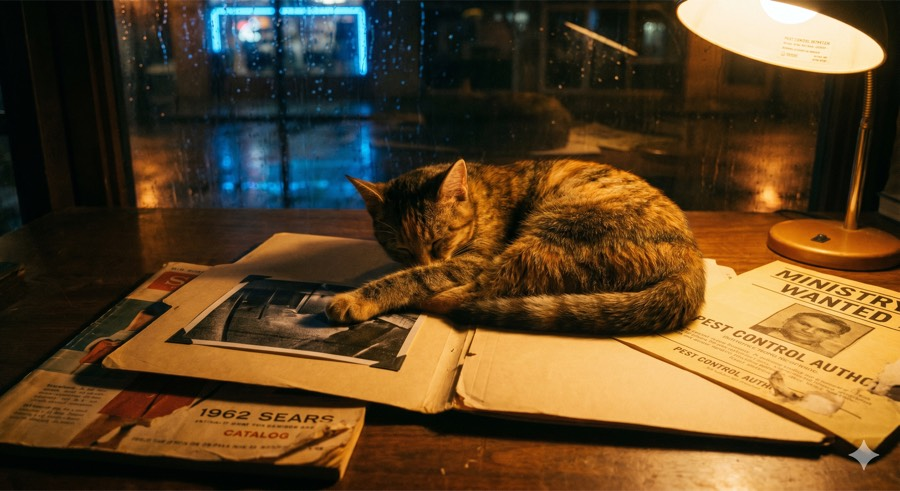
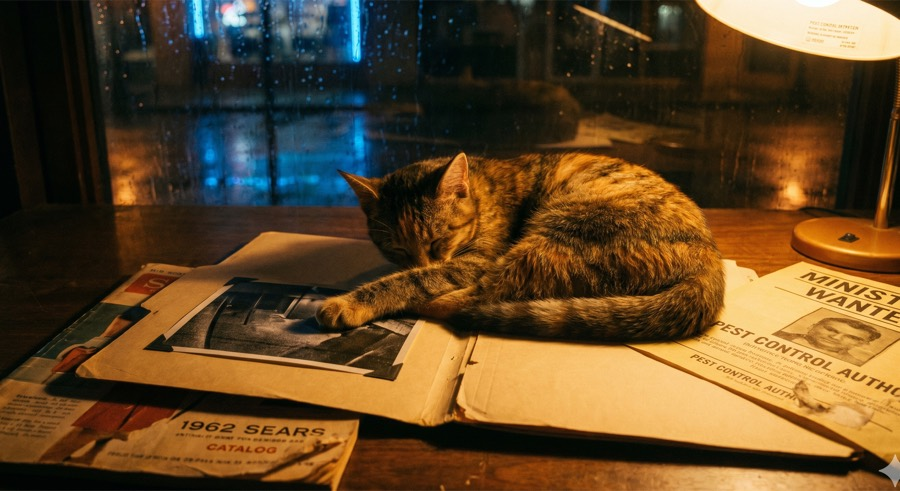
feat: UI polish from design review (light-mode contrast, nav order, mobile, checklist)
- Nav order now matches the 1-2-3 onboarding path; step progress bar on the three core pages
- Light-mode palette overrides (amber/blue/lines) for AA contrast; focus rings; reduced-motion; print styles
- Hero scrim and clearer button labels; shorter header title; portrait float fixes
- Tappable checklist with copy-paste message template for the GM; next-step boxes on every page
- Crop AI watermark from images and shrink the hero; fix nested italics typo

diff --git a/docs/stylesheets/extra.css b/docs/stylesheets/extra.css
@@ -1,6 +1,4 @@
 /* The Shadow Exchange — industrial-occult noir. Amber against cold blue. */
-@import url("https://fonts.googleapis.com/css2?family=Oswald:wght@500;600;700&family=Lora:ital,wght@0,400;0,600;1,400&display=swap");
-
 :root {
   --se-amber: #f2a93b;
   --se-amber-dim: #b97d1d;
@@ -8,6 +6,14 @@
   --se-ink: #0c0e13;
   --se-panel: #141821;
   --se-line: #262c3a;
+}
+
+/* ---------- Light mode needs its own amber/blue/lines (dark values are too pale on paper) ---------- */
+[data-md-color-scheme="default"] {
+  --se-amber: #9a5206; --se-amber-dim: #b8732a; --se-blue: #1d5fa7; --se-panel: #ece4d2; --se-line: #d6c9b1;
+}
+[data-md-color-scheme="default"] .md-header, [data-md-color-scheme="default"] .md-tabs {
+  --se-amber: #f2a93b; --se-line: #262c3a;   /* the bars stay dark in both modes */
 }
 
 /* ---------- Dark (default): rain-slick night ---------- */
@@ -31,8 +37,8 @@
   --md-default-fg-color: #1d1914;
   --md-primary-fg-color: #14171d;
   --md-primary-bg-color: #f2e9d6;
-  --md-accent-fg-color: #b0620a;
-  --md-typeset-a-color: #a2560a;
+  --md-accent-fg-color: #9a5206;
+  --md-typeset-a-color: #9a5206;
   --md-footer-bg-color: #14171d;
 }
 
@@ -53,7 +59,7 @@
 .md-header { border-bottom: 2px solid var(--se-amber); box-shadow: none; }
 .md-header__title { text-transform: uppercase; font-weight: 600; }
 .md-tabs { border-bottom: 1px solid var(--se-line); }
-.md-tabs__link { text-transform: uppercase; font-size: .62rem; opacity: .8; }
+.md-tabs__link { text-transform: uppercase; font-size: .68rem; letter-spacing: .06em; opacity: .88; }
 .md-tabs__item--active .md-tabs__link { opacity: 1; color: var(--se-amber); }
 
 /* ---------- Quotes (the pitch, read-alouds, GM-style asides) ---------- */
@@ -85,12 +91,16 @@
 .hero {
   position: relative; margin: 0 0 1.6rem; border-radius: 12px; overflow: hidden; min-height: 21rem;
   display: flex; align-items: flex-end;
-  background: linear-gradient(180deg, rgba(12,14,19,.15) 0%, rgba(12,14,19,.55) 55%, rgba(12,14,19,.92) 100%),
-              url("../assets/hero-curios.jpg") center 35% / cover no-repeat;
+  background:
+    radial-gradient(120% 90% at 0% 100%, rgba(12,14,19,.94) 0%, rgba(12,14,19,.72) 52%, rgba(12,14,19,.2) 100%),
+    linear-gradient(180deg, rgba(12,14,19,.1) 0%, rgba(12,14,19,.82) 100%),
+    url("../assets/hero-curios.jpg") center 28% / cover no-repeat;
   border: 1px solid var(--se-line);
 }
 .hero__text { padding: 1.6rem 1.6rem 1.4rem; max-width: 40rem; }
 .hero__text h1 { margin: 0 0 .15em; font-size: 2.4em; line-height: 1.05; color: #f6ecd6 !important; text-shadow: 0 2px 14px rgba(0,0,0,.7); }
+.hero__text .md-button { margin: .25rem .5rem .25rem 0; }
+.hero .md-button:not(.md-button--primary) { color: #f6ecd6; border-color: rgba(246,236,214,.55); background: rgba(12,14,19,.65); }
 .hero__kicker { font-family: "Oswald", sans-serif; text-transform: uppercase; letter-spacing: .22em; color: var(--se-amber); font-size: .7rem; margin: 0 0 .3rem; }
 .hero__tag { color: #efe6d2; font-family: "Lora", serif; font-style: italic; margin: .4rem 0 1rem; text-shadow: 0 1px 8px rgba(0,0,0,.8); }
 @media (max-width: 600px) { .hero { min-height: 18rem; } .hero__text h1 { font-size: 1.9em; } }
@@ -111,8 +121,6 @@
 /* ---------- Pictures ---------- */
 .md-typeset img.figure { border-radius: 10px; border: 1px solid var(--se-line); width: 100%; margin: 1rem 0; }
 .md-typeset figure figcaption { font-family: "Lora", serif; font-style: italic; color: var(--md-default-fg-color--light); font-size: .75rem; }
-.md-typeset img.portrait { float: right; width: 11rem; margin: 0 0 1rem 1.2rem; border-radius: 10px; border: 1px solid var(--se-line); }
-@media (max-width: 600px) { .md-typeset img.portrait { float: none; width: 100%; margin: 1rem 0; } }
 
 /* ---------- Footer ---------- */
 .md-footer-meta { background: var(--se-ink); }
@@ -121,3 +129,43 @@
 /* ---------- Active nav ---------- */
 .md-nav__link--active, .md-nav__item .md-nav__link--active { color: var(--se-amber) !important; }
 .md-nav__link:hover { color: var(--se-blue); }
+
+/* ---------- Portraits: clear floats, tame on phones ---------- */
+.md-typeset img.portrait { float: right; width: 14rem; max-width: 42%; margin: .2rem 0 1rem 1.2rem; border-radius: 10px; border: 1px solid var(--se-line); }
+.md-typeset h2, .md-typeset h3, .md-typeset hr, .md-typeset .next-step { clear: both; }
+@media (max-width: 600px) {
+  .md-typeset img.portrait { float: none; display: block; width: 100%; max-width: 20rem; max-height: 11rem; object-fit: cover; margin: .75rem auto; }
+  .md-header__title { font-size: .85rem; letter-spacing: .03em; }
+}
+
+/* ---------- 3-step onboarding bar ---------- */
+.onboard-steps { display: grid; grid-template-columns: repeat(3, 1fr); gap: .5rem; margin: 0 0 1.4rem; font-family: "Oswald", sans-serif; text-transform: uppercase; font-size: .62rem; letter-spacing: .06em; }
+.onboard-steps a { display: block; padding: .55rem .7rem; border-radius: 6px; border: 1px solid var(--se-line); background: var(--se-panel); color: var(--md-default-fg-color--light) !important; text-decoration: none; text-align: center; }
+.onboard-steps a.active { border-color: var(--se-amber); color: var(--se-amber) !important; background: rgba(242,169,59,.1); font-weight: 600; }
+
+/* ---------- Keyboard focus + reduced motion ---------- */
+.md-typeset a:focus-visible, .md-typeset .md-button:focus-visible { outline: 2px solid var(--se-amber); outline-offset: 2px; }
+@media (prefers-reduced-motion: reduce) {
+  *, *::before, *::after { transition-duration: .01ms !important; animation-duration: .01ms !important; transform: none !important; }
+}
+
+/* ---------- Print: Quick Start doubles as a table handout ---------- */
+@media print {
+  .md-header, .md-tabs, .md-sidebar, .md-footer, .next-step, .onboard-steps, .md-top { display: none !important; }
+  body, .md-main, .md-content { background: #fff !important; color: #000 !important; }
+  .md-typeset { font-size: 9.5pt !important; line-height: 1.45 !important; }
+  .md-typeset h1, .md-typeset h2, .md-typeset th { color: #000 !important; margin-top: .8em !important; }
+  .md-typeset table:not([class]) th { background: #eee !important; }
+}
+
+/* ---------- Task-list checkboxes: obvious empty ring vs. filled amber ---------- */
+.md-typeset .task-list-indicator::before {
+  background-color: transparent; -webkit-mask-image: none; mask-image: none;
+  border: 2px solid var(--se-amber-dim); border-radius: 50%; box-sizing: border-box;
+}
+.md-typeset [type=checkbox]:checked + .task-list-indicator::before {
+  background-color: var(--se-amber); border-color: var(--se-amber);
+  box-shadow: inset 0 0 0 3px var(--md-default-bg-color);
+}
+/* nested numbered lists stay 1-2-3 (matches the message template) */
+.md-typeset ol ol { list-style-type: decimal; }

diff --git a/docs/Before-Session-0.md b/docs/Before-Session-0.md
@@ -1,22 +1,46 @@
 # Before Session 0 — Your Checklist
 
+<div class="onboard-steps">
+  <a href="../Quick-Start/">1. Quick Start (5m)</a>
+  <a href="../Character-Creation-Guide/">2. Build PC (40m)</a>
+  <a class="active" href="../Before-Session-0/">3. Send to GM (5m)</a>
+</div>
+
 *Screenshot this. It is the whole job.*
 
 ---
 
 ## The 3 steps
 
-1. ☐ **Read [Quick Start](Quick-Start.md)** — 5 minutes. Nothing else is required reading.
-2. ☐ **Build your character** with the [Character Creation Guide](Character-Creation-Guide.md) (about 45 minutes; it walks you through it).
-3. ☐ **Send the GM these 8 things** — a text, a message, or an email is fine; the GM will tell you where to send it:
-   1. Your **playbook**
-   2. **Name** (and alias), **look** (three details), **heritage and background** (one specific line), and your **Vice + Purveyor**
-   3. Your **action dots**
-   4. Your **starting special ability**
-   5. Your **Close Friend** — name + one sentence
-   6. Your **Rival** — name + one sentence
-   7. Your **Cursed Family Heirloom** — just the object
-   8. Your answer to **one question** (the Guide gives you three to choose from)
+- [ ] **Read the [Quick Start](Quick-Start.md)** — 5 minutes. Nothing else is required reading.
+- [ ] **Build your character** with the [Character Creation Guide](Character-Creation-Guide.md) (about 45 minutes; it walks you through it).
+- [ ] **Send the GM these 8 things** — a text, a message, or an email is fine; the GM will tell you where to send it:
+    1. Your **playbook**
+    2. **Name** (and alias), **look** (three details), **heritage and background** (one specific line), and your **Vice + Purveyor**
+    3. Your **action dots**
+    4. Your **starting special ability**
+    5. Your **Close Friend** — name + one sentence
+    6. Your **Rival** — name + one sentence
+    7. Your **Cursed Family Heirloom** — just the object
+    8. Your answer to **one question** (the Guide gives you three to choose from)
+
+
+## Copy-and-paste message for the GM
+**Tap the copy icon, paste it into a message to the GM, and fill in the blanks:**
+
+```text
+1. Playbook:
+2. Name / alias:
+   Look (3 details):
+   Heritage & background:
+   Vice & purveyor:
+3. My 4 extra action dots:
+4. Starting special ability:
+5. Close Friend (name + 1 sentence):
+6. Rival (name + 1 sentence):
+7. Cursed Family Heirloom (the object):
+8. Why my character is still doing this work:
+```
 
 ## Need your playbook sheet?
 **Free PDFs for all seven playbooks: [Official Resources](Official-Resources.md).** *(Ignore the sheet's heritage list and friend names — they're for a different city.)* **No sheet yet? Come anyway** — we'll pick your special ability and your Friend/Rival at Session 0 in two minutes.
@@ -33,3 +57,8 @@
 Read [Session 0 Agenda](Session-0-Agenda.md) if you'd like to know. The short version: we introduce our characters, we look at the bookshop, we do **one silly practice roll**, and nothing bad happens to anyone.
 
 *Bring: your sheet (or photo), your sense of humor, and your character's worst idea.*
+
+---
+
+**Next step →** [Session 0 Agenda](Session-0-Agenda.md) — what the first night looks like
+{ .next-step }

diff --git a/docs/What-Kind-of-Game.md b/docs/What-Kind-of-Game.md
@@ -18,7 +18,7 @@ Here is the kind of moment this campaign is built to produce:
 
 Here is another:
 
-*You pull the Anchor Item from the target — *the keepsake that lets a hidden creature pass as human* — a silver locket worn smooth by someone's thumb, the photograph inside long since gone to a blur of faces. The target is neutralized. You file the paperwork. In the ledger, you write the locket's description. You write the date. You do not write what the date on the inside lid means about how long this has been going on.*
+*You pull the **Anchor Item** from the target — the keepsake that lets a hidden creature pass as human — a silver locket worn smooth by someone's thumb, the photograph inside long since gone to a blur of faces. The target is neutralized. You file the paperwork. In the ledger, you write the locket's description. You write the date. You do not write what the date on the inside lid means about how long this has been going on.*
 
 And another:
 

diff --git a/docs/Character-Creation-Guide.md b/docs/Character-Creation-Guide.md
@@ -1,5 +1,11 @@
 # Character Creation Guide
 
+<div class="onboard-steps">
+  <a href="../Quick-Start/">1. Quick Start (5m)</a>
+  <a class="active" href="../Character-Creation-Guide/">2. Build PC (40m)</a>
+  <a href="../Before-Session-0/">3. Send to GM (5m)</a>
+</div>
+
 **Read the [Quick Start](Quick-Start.md) first (5 minutes) — it has the dice rule and all 12 actions on one screen. That's all you need.** Everything else ([What Kind of Game Is This](What-Kind-of-Game.md), [Our Lair](Our-Lair.md), [Rules and Mechanics](Rules-and-Mechanics.md)) is optional reference if you get curious.
 
 Build your character before Session 0. Send the GM what this guide asks for. We'll introduce everyone at the table and build the crew together.

diff --git a/docs/Official-Resources.md b/docs/Official-Resources.md
@@ -51,3 +51,8 @@ You do **not** need these — the [Quick Start](Quick-Start.md) is enough. If yo
 ## Credit
 
 This work is based on [Blades in the Dark](http://www.bladesinthedark.com/), product of One Seven Design, developed and authored by John Harper, and licensed for our use under the [Creative Commons Attribution 3.0 Unported license](http://creativecommons.org/licenses/by/3.0/). *Blades in the Dark* is a game by John Harper; support the creators by [buying the book](https://evilhat.com/product/blades-in-the-dark/) if you enjoy it.
+
+---
+
+**Next step →** [Character Creation Guide](Character-Creation-Guide.md) — build your character
+{ .next-step }

diff --git a/docs/Known-Contacts.md b/docs/Known-Contacts.md
@@ -25,3 +25,8 @@ He charges fair prices: information for information, or coin when information is
 Ministry Field Compliance Officer. You have mailed her your incident forms for two years; she has returned each one annotated, with a form number, and no signature but hers. You have never met her. She has opinions about your handwriting.
 
 *Her office is at the Ministry's Old City field office, six blocks east. Plain door. No sign.*
+
+---
+
+**Next step →** [Character Creation Guide](Character-Creation-Guide.md) — build your character
+{ .next-step }

diff --git a/docs/Quick-Start.md b/docs/Quick-Start.md
@@ -1,5 +1,11 @@
 # Quick Start — Read This First (5 minutes)
 
+<div class="onboard-steps">
+  <a class="active" href="../Quick-Start/">1. Quick Start (5m)</a>
+  <a href="../Character-Creation-Guide/">2. Build PC (40m)</a>
+  <a href="../Before-Session-0/">3. Send to GM (5m)</a>
+</div>
+
 *Never played Blades in the Dark? Perfect. You do **not** need to read the long Rules page before Session 0 — read this. The long page is a reference you can come back to.*
 
 ---

diff --git a/docs/index.md b/docs/index.md
@@ -14,8 +14,8 @@ title: The Shadow Exchange
 
 <p class="hero__tag">Quiet dread. Moral weight. A cat who is always asleep on the evidence.</p>
 
-[Start here :material-arrow-right:](Quick-Start.md){ .md-button .md-button--primary }
-[Before Session 0](Before-Session-0.md){ .md-button }
+[1. Quick Start (5 min) :material-arrow-right:](Quick-Start.md){ .md-button .md-button--primary }
+[Session 0 checklist](Before-Session-0.md){ .md-button }
 
 </div>
 </div>

diff --git a/docs/Glossary.md b/docs/Glossary.md
@@ -38,3 +38,8 @@
 - **Containment Suite** — the crew's hidden lab and vault behind the bookshop's Zoltar machine.
 - **Cursed Family Heirloom** — an object your character should have left behind. The GM will quietly do something with it.
 - **Anchor Ledger** — the crew's record of every Anchor decision they've made.
+
+---
+
+**Next step →** [FAQ](FAQ.md) — the questions a nervous first-timer would ask
+{ .next-step }

diff --git a/docs/FAQ.md b/docs/FAQ.md
@@ -40,3 +40,8 @@ No. Three things: [Quick Start](Quick-Start.md), build your character, send the 
 
 **What if I can't make a session?**
 Tell the GM. We'll work around you — your character can be "lost in their Vice" off-camera.
+
+---
+
+**Next step →** [Before Session 0](Before-Session-0.md) — your checklist
+{ .next-step }
